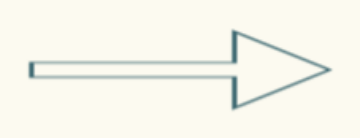
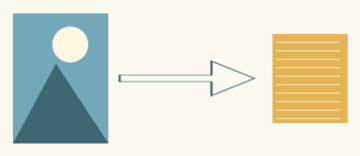
Illustrate dividers and local patterns in context

diff --git a/src/creation-library/examples.js b/src/creation-library/examples.js
@@ -47,6 +47,19 @@ export function techniqueExample(method){
   before.push({op:'material.add',id:'note',asset:'m6',place:{reference:'page',at:[72,88],unit:'mm'}});
  }
  if(method.id==='graphic-bubble')before.push({op:'material.add',id:'photo',asset:'m1',place:{reference:'page',at:[80,121],unit:'mm'}});
+ if(method.id==='graphic-arrow')before.push({op:'material.add',id:'photo',asset:'m1',place:{reference:'page',at:[35,88],unit:'mm'}},{op:'material.add',id:'card',asset:'m2',place:{reference:'page',at:[108,88],unit:'mm'}});
+ if(['graphic-wave','graphic-zigzag'].includes(method.id)){
+  for(const [id,content,y] of [['first','一段短记',77],['second','另一段短记',95]])before.push({op:'text.add',id,content,place:{reference:'page',at:[45,y],unit:'mm',anchor:'top-left'},size:{width:54,unit:'mm'},style:{fontFamily:'Xiaolai',fontSizePt:11,color:'#3D6871'}});
+ }
+ if(method.id==='pattern-scallop'){
+  p.at=[72,102];p.widthMm=50;p.heightMm=9;
+  before.push({op:'material.add',id:'note',asset:'m6',place:{reference:'page',at:[72,79],unit:'mm'}});
+ }
+ if(['pattern-dots','pattern-grid'].includes(method.id)){
+  p.at=[60,88];
+  before.push({op:'material.add',id:'note',asset:'m6',place:{reference:'page',at:[118,88],unit:'mm'}});
+ }
+ if(method.id==='pattern-stripes')before.push({op:'graphic.add',id:'ground',geometry:{kind:'rect'},place:{reference:'page',at:[72,88],unit:'mm'},size:{width:58,height:28,unit:'mm'},style:{fill:'#F1E8D5',stroke:null}});
  if(method.recipe==='tape'){
   p.aliases=['m4'];
   if(method.id==='tape-fix')before.push({op:'material.add',id:'photo',asset:'m1',place:{reference:'page',at:[72,107],unit:'mm'}});

diff --git a/docs/CREATION_LIBRARY_AUDIT.md b/docs/CREATION_LIBRARY_AUDIT.md
@@ -201,3 +201,9 @@
 - “拱形承载框”“波浪花边框”“数字回形针”原示意只有孤立轮廓。示例现在分别带照片或便签，拱框示例另留出足够边距；四张受影响示意已渲染查看。拱框只创建透明外沿，不把矩形照片裁成拱形，照片保持原尺寸。
 - “气泡批注框”原工具只能放空框。现在一次 `creation_recipe` 调用生成可分别编辑的气泡与短文字，字号、字体、宽高和尾巴参数可调；未提供文字或文字超出气泡主体时明确拒绝。示例将尾巴指向照片，并在生成图中检查文字与照片位置。
 - 三个边框/固定点方法的介绍改为说明与素材的关系和可检查的结果，避免只罗列几何参数。模板仍为 78 个，后续解析继续暂停；完整测试 1960 项通过、1 项跳过、0 失败，UI smoke、React 流程及 7 视口路由通过。尚未做远程模型自主创作或实体设备验收。
+
+## 分隔与局部纹样复核
+
+- 箭头示例加入明确的来源照片和目标卡片；波浪线、折线放在两段短记之间；手绘波浪短边贴近便签下沿。七张相关示意均重新生成查看，不再只展示孤立线形。
+- 点阵与网格示例放在便签旁，展示局部纹样和留白的关系；斜线示例放在独立的浅色底形上，线头保留在底形内部。点阵教程改为准确描述行列数控制密度，没有声称单个点阵会自行生成渐变密度。
+- 箭头、波浪线和折线教程写明起终点或分隔对象、需要调整的结构参数及遮挡检查。模板仍为 78 个，后续解析保持暂停；完整测试 1960 项通过、1 项跳过、0 失败，UI smoke、React 流程与 7 视口路由通过。示意素材仍为合成例子，未做远程模型自主创作或实体设备验收。
